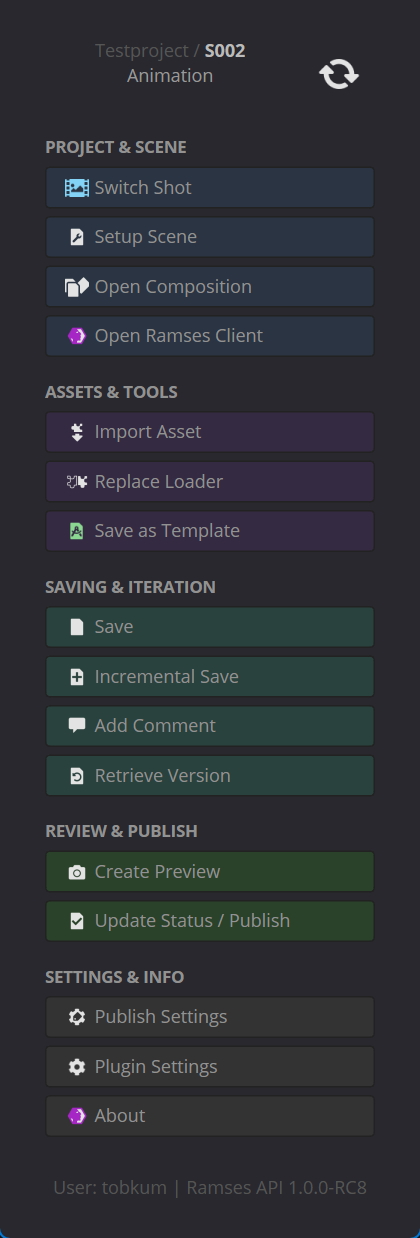
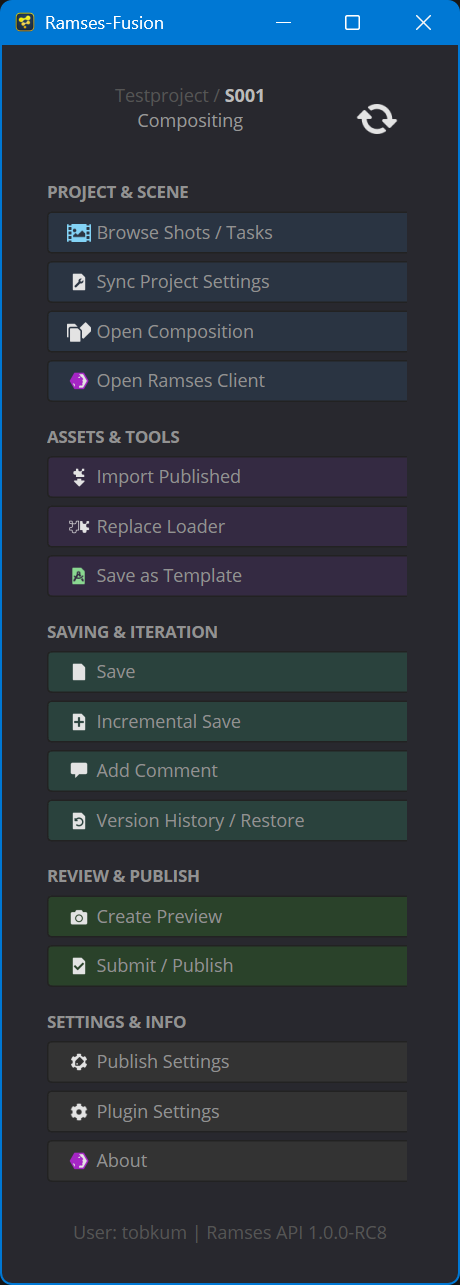
improve button labels & update screenshot

diff --git a/Ramses-Fusion/Ramses-Fusion.py b/Ramses-Fusion/Ramses-Fusion.py
@@ -798,14 +798,14 @@ class RamsesFusionApp:
                 ),
                 self.create_button(
                     "SwitchShotButton",
-                    "Switch Shot",
+                    "Browse Shots / Tasks",
                     "ramshot.png",
                     tooltip="Quickly jump to another shot in this project or create a new one from a template.",
                     accent_color=bg_color,
                 ),
                 self.create_button(
                     "SetupSceneButton",
-                    "Setup Scene",
+                    "Sync Project Settings",
                     "ramsetupscene.png",
                     tooltip="Automatically set the resolution, FPS, and frame range based on Ramses project settings.",
                     accent_color=bg_color,
@@ -847,7 +847,7 @@ class RamsesFusionApp:
                 ),
                 self.create_button(
                     "ImportButton",
-                    "Import Asset",
+                    "Import Published",
                     "ramimport.png",
                     tooltip="Import a published asset or render into the current composition.",
                     accent_color=bg_color,
@@ -910,7 +910,7 @@ class RamsesFusionApp:
                 ),
                 self.create_button(
                     "RetrieveButton",
-                    "Retrieve Version",
+                    "Version History / Restore",
                     "ramretrieve.png",
                     tooltip="Open a previous version of this composition from the _versions folder.",
                     accent_color=bg_color,
@@ -945,7 +945,7 @@ class RamsesFusionApp:
                 ),
                 self.create_button(
                     "UpdateStatusButton",
-                    "Update Status / Publish",
+                    "Submit / Publish",
                     "ramstatus.png",
                     tooltip="Change the shot status (WIP, Review, Done) and optionally publish the final comp.",
                     accent_color=bg_color,
